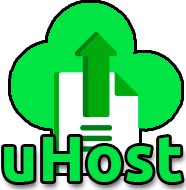
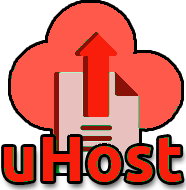
Ping Theme Applied

diff --git a/Sec11Finished/packages/packages.css b/Sec11Finished/packages/packages.css
@@ -21,7 +21,7 @@ main {
 
 .package:hover,
 .package:active {
-    box-shadow: 2px 2px 4px rgba(0,0,0,0.5);
+    box-shadow: 2px 2px 4px rgba(0, 0, 0, 0.5);
     border-color: #ff5454;
     /* border-color: #ff5454 !important; */
 }
@@ -61,11 +61,13 @@ main {
 }
 
 #plus {
-    background: rgba(213, 255, 220, 0.95);
+    background: rgba(243, 228, 224, 0.95);
+    ;
 }
 
 #free {
-    background: rgba(234, 252, 237, 0.95);
+    background: rgba(241, 164, 145, 0.95);
+    ;
     float: right;
     border-right: none;
     border-left: 4px solid #0e4f1f;
@@ -78,7 +80,7 @@ main {
 }
 
 #premium {
-    background: rgba(14, 79, 31, 0.95);
+    background: rgba(221, 188, 179, 0.95);
 }
 
 #premium .package__title {
@@ -91,23 +93,23 @@ main {
 
 @media (min-width: 40rem) {
     main {
-      max-width: 1500px;
-      margin-left: auto;
-      margin-right: auto;
+        max-width: 1500px;
+        margin-left: auto;
+        margin-right: auto;
     }
 }
 
 @media (min-width: 1500px) {
     .package {
-      border-left: 4px solid #0e4f1f;
+        border-left: 4px solid #0e4f1f;
     }
 
     #free {
-      border-right: 4px solid #0e4f1f;
+        border-right: 4px solid #0e4f1f;
     }
 
     #free:hover,
     #free:active {
-      border-right-color: #ff5454;
+        border-right-color: #ff5454;
     }
 }

diff --git a/Sec11Finished/shared.css b/Sec11Finished/shared.css
@@ -28,12 +28,12 @@ main {
   position: fixed;
   top: 0;
   left: 0;
-  background: #2ddf5c;
+  background: palevioletred;
   padding: 0.5rem 1rem;
   z-index: 1;
 }
 
-.main-header > div {
+.main-header>div {
   display: inline-block;
   vertical-align: middle;
 }
@@ -61,7 +61,7 @@ main {
 }
 
 .main-header__brand {
-  color: #0e4f1f;
+  color: palevioletred;
   text-decoration: none;
   font-weight: bold;
   height: 2.5rem;
@@ -216,10 +216,10 @@ main {
   border: #a1a1a1;
   background: #ccc;
   color: #a1a1a1;
-} 
+}
 
 .open {
-    display: block !important;
+  display: block !important;
 }
 
 @media (min-width: 40rem) {

diff --git a/Sec11Finished/main.css b/Sec11Finished/main.css
@@ -37,12 +37,12 @@
 }
 
 .section-title {
-  color: #2ddf5c;
+  color: palevioletred;
   text-align: center;
 }
 
 .plan {
-  background: #d5ffdc;
+  background: pink;
   text-align: center;
   padding: 1rem;
   margin: 0.5rem 0;
@@ -50,7 +50,7 @@
 }
 
 .plan--highlighted {
-  background: #19b84c;
+  background: palevioletred;
   color: white;
 }
 
